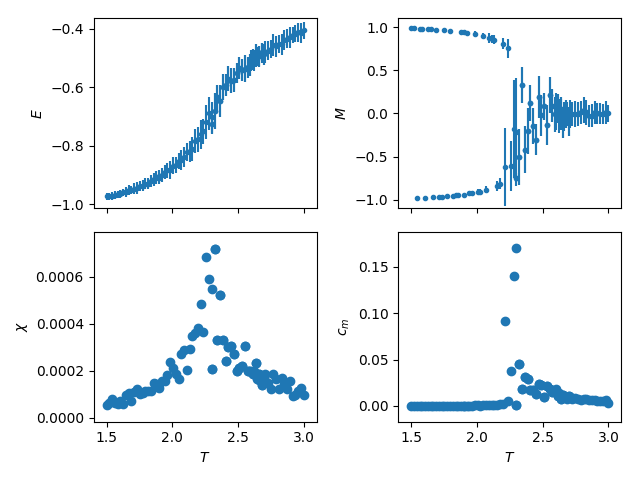
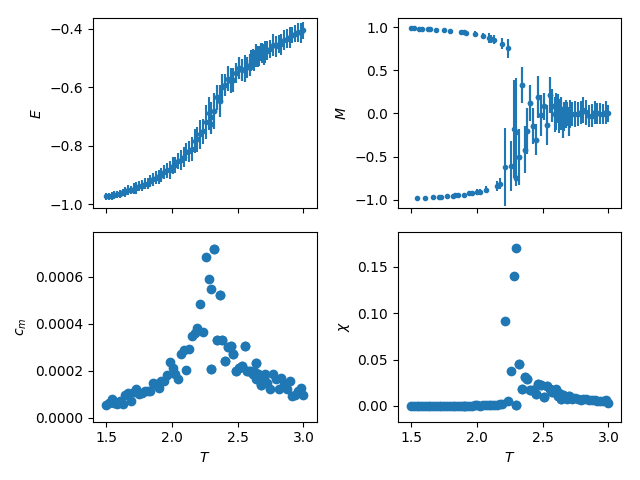
Corrected an error in the plot figure

diff --git a/ising_plots.py b/ising_plots.py
@@ -24,10 +24,10 @@ def plot(data):
 	axes[0,1].set_ylabel(r'$M$')
 
 	axes[1,0].set_xlabel(r'$T$')
-	axes[1,0].set_ylabel(r'$\chi$')
+	axes[1,0].set_ylabel(r'$c_m$')
 
 	axes[1,1].set_xlabel(r'$T$')
-	axes[1,1].set_ylabel(r'$c_m$')
+	axes[1,1].set_ylabel(r'$\chi$')
 
 	axes[0,0].errorbar(data[:,0], data[:,1], yerr=data[:,2], marker='.', ls='None')
 	axes[0,1].errorbar(data[:,0], data[:,3], yerr=data[:,4], marker='.', ls='None')
